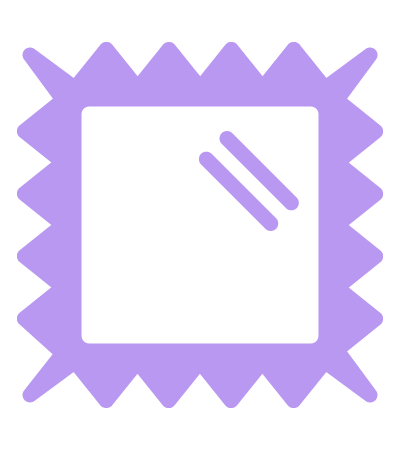
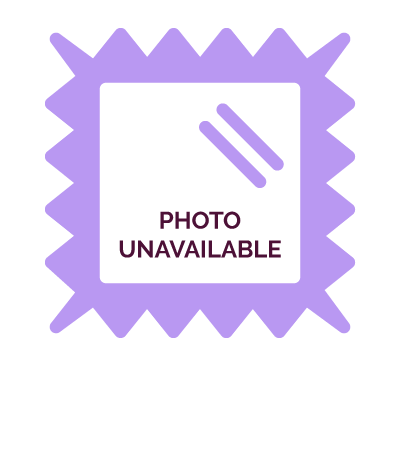
Adding placeholder image for missing product images

diff --git a/dev/scripts/Product.js b/dev/scripts/Product.js
@@ -16,7 +16,7 @@ const Product = (props) => {
             </h3>
 
 					<div className="product__image--container">
-									<img src={props.image_link} alt={props.name} className="product__image" />
+                <img src={props.image_link.startsWith('http://imancosmetics') ? 'images/no-photo-available.png' : props.image_link} alt={props.name} className="product__image" />
 							</div>	
 						
 

diff --git a/dev/styles/_button.scss b/dev/styles/_button.scss
@@ -51,7 +51,7 @@
 select{
     background-color: white;
     border: 1px solid $med-purple;
-    color: $med-purple;
+    color: $dark-purple;
     display: block;
     font-size: 1.4rem;
     font-weight: $bold;
@@ -59,5 +59,7 @@ select{
     padding: 5px;
     transition: all 0.5s ease-in-out;
 		width: 100%;
-		text-align: center;
+        text-align: center;
+        
+        
 }
